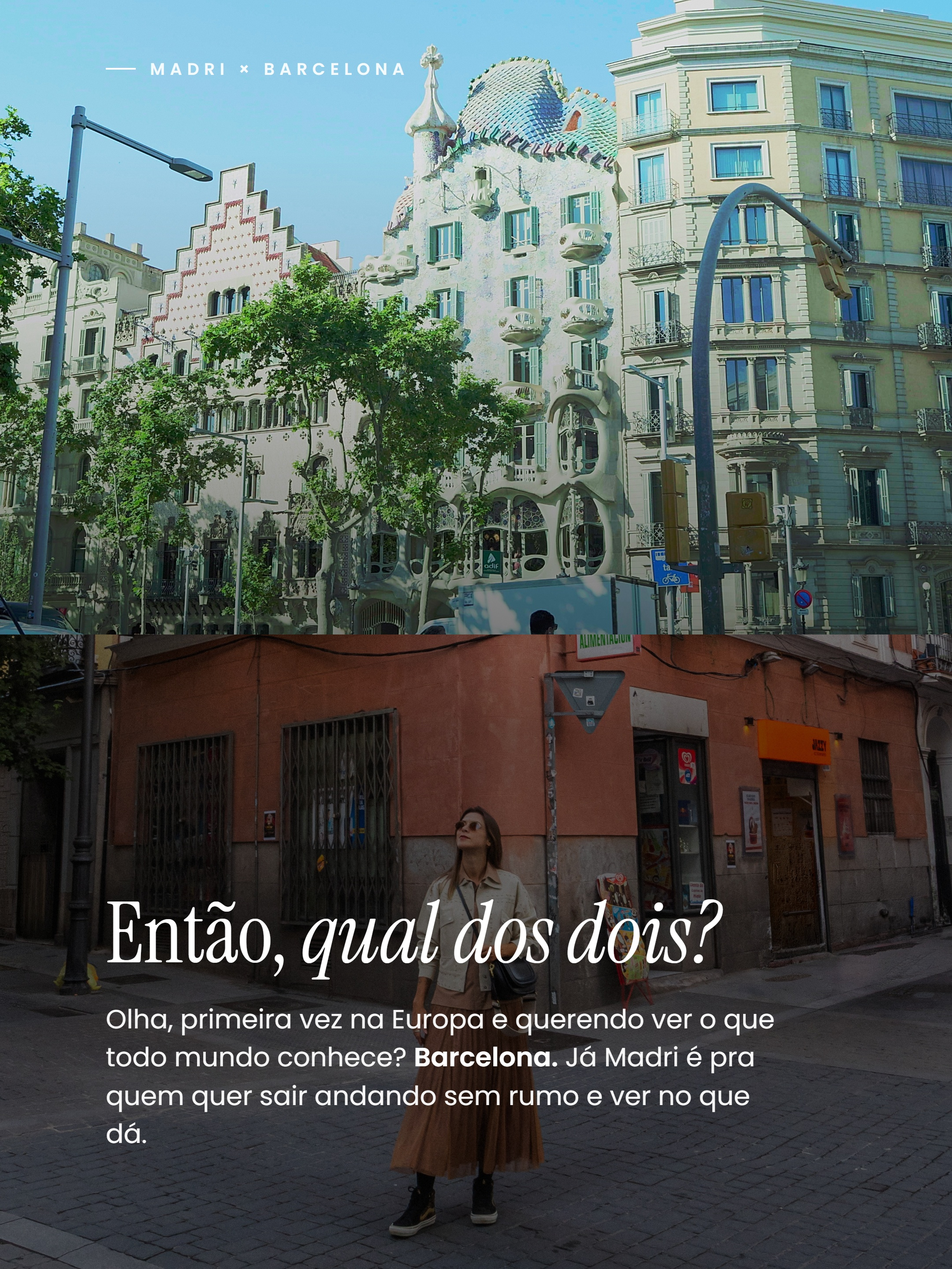
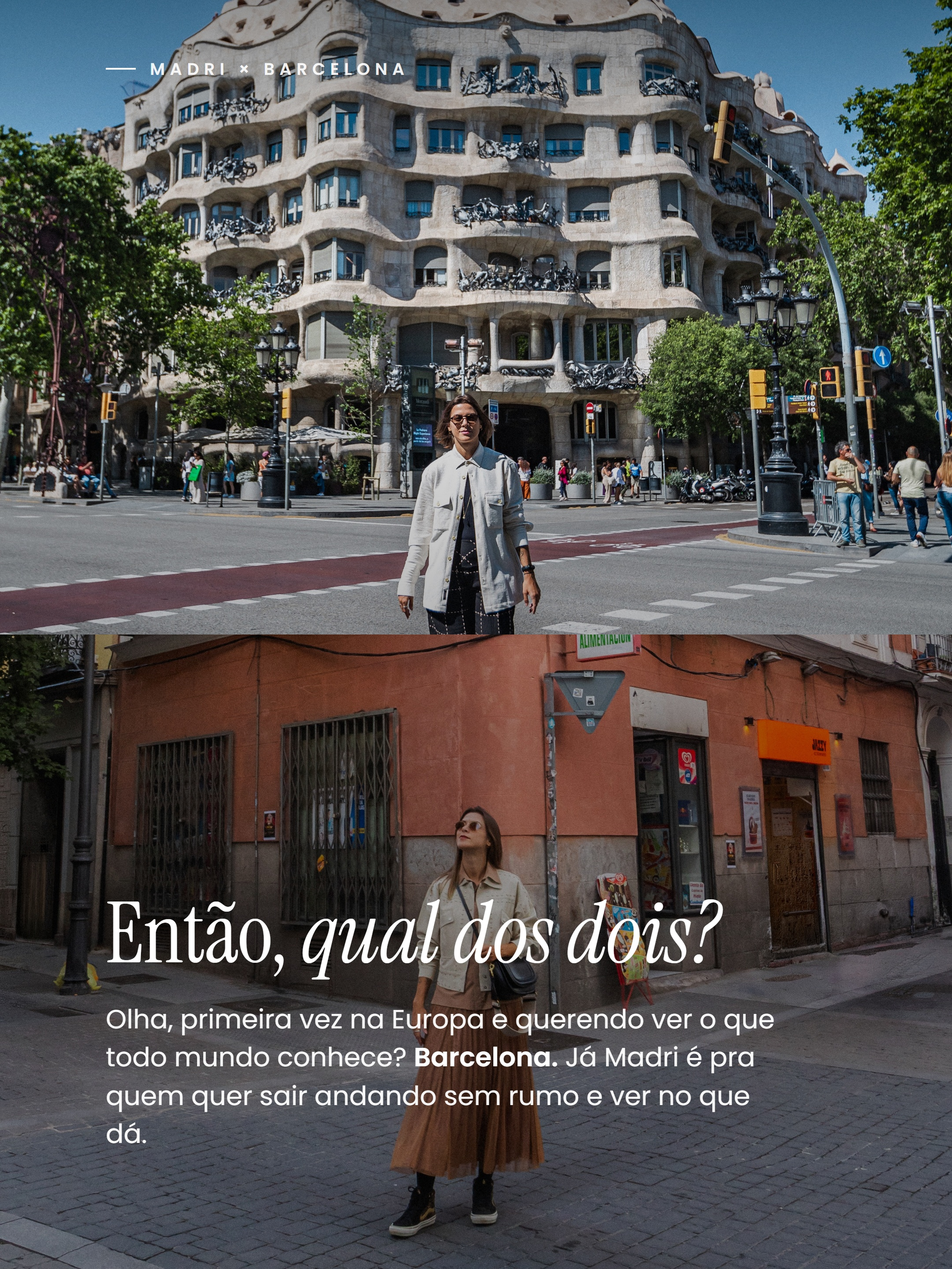
carrossel: slides 7 a 10 trocados por foto; corrige vinheta de topo
O Daniel reprovou os slides 7, 8, 9 e 10 -- exatamente os quatro cuja
imagem principal era frame de video. A causa e da fonte, nao do tratamento:
frame vem de 16:9, sofre upscale de ~1,33x para caber no 3:4 e nao tem o
micro-detalhe da foto. Ao lado de cinco slides com foto exportada, denuncia.

Barcelona tinha 63 fotos tratadas em H:/Destinos/Barcelona 2022/Fotografia
que ninguem havia varrido. Slides 9 e 10 passaram a usar foto (Casa Mila e
os dois na Casa Batllo). Slides 7 e 8 seguem em frame porque nao existe foto
de comida nem da Sala Equis no acervo, mas trocaram para o clipe mais
grafico: pao torrado em prato branco e o letreiro aceso da Sala Equis.

Bug junto: .vin-topo estava fora do seletor que aplica position absolute,
entao a vinheta de reforco do topo nunca teve efeito em nenhum slide desde
que foi criada -- o marcador vinha lendo por sorte, pelo fundo da foto.
Corrigido na peca e no template. O topo tambem virou medido, --scrim-topo,
porque .42 nao cobre branco brilhante: no slide 8 o marcador cai sobre o
letreiro aceso (brilho 218, contraste 1,28) e sumia.

diff --git a/biblioteca/pecas/2026/2026-08-07-carrossel-madri-ou-barcelona/fonte.html b/biblioteca/pecas/2026/2026-08-07-carrossel-madri-ou-barcelona/fonte.html
@@ -46,7 +46,7 @@
      que leva o texto. A conta cobre brilho e detalhe — o título do slide 3 caiu
      numa faixa escura o bastante pela média e mesmo assim não lia, porque a
      fachada da Casa Batlló tem detalhe 55. Erro pago em 2026-08-08. */
-  .vin-baixo, .vin-cima, .vin-meio { position: absolute; left: 0; width: 100%; pointer-events: none; }
+  .vin-baixo, .vin-cima, .vin-meio, .vin-topo { position: absolute; left: 0; width: 100%; pointer-events: none; }
   .slide { --scrim: .55; }
   /* O scrim fica CHEIO ao longo de todo o bloco de texto e só decai acima dele.
      Gradiente que começa a cair na base entrega metade do valor medido na
@@ -80,10 +80,17 @@
       rgba(0,0,0,calc(var(--scrim) * .42)) 72%,
       rgba(0,0,0,calc(var(--scrim) * .95)) 100%);
   }
-  /* reforço de topo — garante o marcador legível sobre céu ou parede clara */
+  /* Reforço de topo, para o marcador. Também medido: .42 cobre céu e parede
+     clara, mas não cobre branco brilhante — no slide 8 o marcador cai sobre o
+     letreiro iluminado da Sala Equis (brilho 218, contraste 1,28) e some. Slide
+     nesse caso passa --scrim-topo com o valor de `analisar` para a linha 0. */
+  .slide { --scrim-topo: .42; }
   .vin-topo {
     top: 0; height: 24%;
-    background: linear-gradient(to bottom, rgba(0,0,0,.42) 0%, rgba(0,0,0,.16) 52%, transparent 100%);
+    background: linear-gradient(to bottom,
+      rgba(0,0,0,var(--scrim-topo)) 0%,
+      rgba(0,0,0,calc(var(--scrim-topo) * .38)) 52%,
+      transparent 100%);
   }
 
   /* bloco de texto */
@@ -269,7 +276,7 @@
 </section>
 
 <!-- 07 — Barcelona -->
-<section class="slide" style="--scrim: .37">
+<section class="slide" style="--scrim: .53">
   <img class="foto" src="imagens/s07-pao-tomate.jpg" style="object-position: 50% 55%">
   <div class="vin-cima"></div>
   <div class="marcador">Barcelona</div>
@@ -280,7 +287,7 @@
 </section>
 
 <!-- 08 — Madri -->
-<section class="slide" style="--scrim: .30">
+<section class="slide" style="--scrim: .18; --scrim-topo: .76">
   <img class="foto" src="imagens/s08-sala-equis.jpg" style="object-position: 50% 50%">
   <div class="vin-baixo"></div>
   <div class="vin-topo"></div>
@@ -292,7 +299,7 @@
 </section>
 
 <!-- 09 — as duas -->
-<section class="slide" style="--scrim: .55">
+<section class="slide" style="--scrim: .35">
   <div class="faixa topo"><img src="imagens/s09-bcn-passeig.jpg" style="object-position: 50% 46%"></div>
   <div class="faixa base"><img src="imagens/s09-mad-rua.jpg" style="object-position: 50% 46%"></div>
   <div class="vin-baixo"></div>
@@ -305,7 +312,7 @@
 </section>
 
 <!-- 10 — CTA -->
-<section class="slide" style="--scrim: .65">
+<section class="slide" style="--scrim: .69">
   <img class="foto" src="imagens/s10-casal.jpg" style="object-position: 50% 42%">
   <div class="vin-baixo"></div>
   <div class="vin-topo"></div>

diff --git a/templates/carrossel-foto-sangrada/template.html b/templates/carrossel-foto-sangrada/template.html
@@ -1,4 +1,4 @@
-<!doctype html>
+<!doctype html>
 <html lang="pt-BR">
 <head>
 <meta charset="utf-8">
@@ -27,6 +27,7 @@
     overflow: hidden;
     color: #fff;
     --scrim: .55;
+    --scrim-topo: .42;
   }
   .foto {
     position: absolute;
@@ -77,10 +78,15 @@
       rgba(0,0,0,calc(var(--scrim) * .42)) 72%,
       rgba(0,0,0,calc(var(--scrim) * .95)) 100%);
   }
-  /* reforço de topo — garante o marcador legível sobre céu ou parede clara */
+  /* Reforço de topo, para o marcador. Também medido: .42 cobre céu e parede
+     clara, mas não cobre branco brilhante (letreiro aceso, brilho 218). Nesses
+     casos o slide passa --scrim-topo com o valor de `analisar` para a linha 0. */
   .vin-topo {
     top: 0; height: 24%;
-    background: linear-gradient(to bottom, rgba(0,0,0,.42) 0%, rgba(0,0,0,.16) 52%, transparent 100%);
+    background: linear-gradient(to bottom,
+      rgba(0,0,0,var(--scrim-topo)) 0%,
+      rgba(0,0,0,calc(var(--scrim-topo) * .38)) 52%,
+      transparent 100%);
   }
 
   .bloco {

diff --git a/biblioteca/pecas/2026/2026-08-07-carrossel-madri-ou-barcelona/brief.md b/biblioteca/pecas/2026/2026-08-07-carrossel-madri-ou-barcelona/brief.md
@@ -53,10 +53,10 @@ Acervo somente leitura. Nada gerado por IA, nenhuma paisagem inventada.
 | 04 | Madri | `s04-gran-via.jpg` | foto `Espanha Nomad 2025/Thumb/NUM_1511.JPG` |
 | 05 | Madri | `s05-taberna.jpg` | foto `Espanha Nomad 2025/Thumb/NUM_0097.JPG` |
 | 06 | Madri | `s06-mercado.jpg` | foto `Espanha Nomad 2025/Fotografia/Mercado Madrid/NUM_0380.JPG` |
-| 07 | Barcelona | `s07-pao-tomate.jpg` | frame `NUM_2044` (pão rústico na mesa) |
-| 08 | Madri | `s08-sala-equis.jpg` | frame `NUM_1222` (Sala Equis) |
-| 09 | as duas | `s09-bcn-passeig.jpg` + `s09-mad-rua.jpg` | frame `NUM_2604` (Passeig de Gràcia) + foto `Thumb/NUM_0043.JPG` |
-| 10 | as duas | `s10-casal.jpg` | frame `NUM_9907` (os dois, Madri) |
+| 07 | Barcelona | `s07-pao-tomate.jpg` | frame `NUM_2043` (pão torrado no prato) |
+| 08 | Madri | `s08-sala-equis.jpg` | frame `NUM_0918` (letreiro aceso da Sala Equis) |
+| 09 | as duas | `s09-bcn-passeig.jpg` + `s09-mad-rua.jpg` | fotos `Barcelona 2022/Casa Batlo/NUM_2465.jpg` (Casa Milà) + `Thumb/NUM_0043.JPG` |
+| 10 | as duas | `s10-casal.jpg` | foto `Barcelona 2022/Casa Batlo/IMG_8003.jpg` (os dois) |
 
 Frames localizados pelo `_index` de `H:\Destinos\Espanha Nomad 2025\_index\{madrid,barcelona}\index.csv`
 (busca por landmark e descrição), extraídos no meio do clipe com `ffmpeg`.
@@ -86,10 +86,10 @@ recebe esse número em `--scrim`. Valores usados:
 | 04 | rodapé | .54 | vitrine acesa atrás |
 | 05 | rodapé | .20 | fachada preta; âncora no rodapé porque o rosto está no meio |
 | 06 | rodapé | .65 | banca de frutas, detalhe 48 |
-| 07 | topo | .37 | mesa clara embaixo |
-| 08 | rodapé | .30 | interior escuro |
-| 09 | rodapé | .55 | split |
-| 10 | rodapé | .65 | prédio claro e selfie |
+| 07 | topo | .53 | prato e mesa claros |
+| 08 | rodapé | .18 + topo .76 | interior escuro, mas letreiro aceso no topo (brilho 218) |
+| 09 | rodapé | .35 | split, faixa de baixo escura |
+| 10 | rodapé | .69 | fachada clara atrás dos dois |
 
 ## Como montar
 
@@ -143,6 +143,35 @@ do slide 7 artificial (a cena já estava em 31%, acima do alvo de 26%). Com `aut
 prato recebe ganho zero e o frame do Metropolis sobe de 16,9% para 24,7%.
 
 Nesta rodada a peça virou **`templates/carrossel-foto-sangrada/`**, por decisão dele.
+
+## Calibração do Daniel, 2026-08-08 (rodada 3)
+
+"Slides 7, 8, 9 e 10 estão ruins." Eram exatamente os quatro slides cuja imagem
+principal era **frame de vídeo**. A causa é da fonte, não do tratamento: frame vem de
+16:9, sofre upscale de ~1,33× para caber no 3:4 e não tem o micro-detalhe da foto. Ao
+lado de cinco slides com foto exportada, denuncia.
+
+Correção: onde existe foto do destino, usa-se foto. O acervo de Barcelona 2022 tem 63
+fotos tratadas e estava praticamente sem uso.
+
+| Slide | Era | Virou |
+|---|---|---|
+| 07 | frame `NUM_2044`, pão desfocado em luz baixa | frame `NUM_2043`, pão torrado em prato branco |
+| 08 | frame `NUM_1222`, parede rosada e plana | frame `NUM_0918`, letreiro aceso da Sala Equis |
+| 09 | frame `NUM_2604` na faixa de cima | foto `NUM_2465`, Casa Milà — as duas faixas passam a ser foto |
+| 10 | frame `NUM_9907`, selfie de grande angular | foto `IMG_8003`, os dois na Casa Batlló |
+
+Sobraram dois frames (07 e 08) porque não existe foto de comida nem da Sala Equis no
+acervo. Nos dois casos a escolha foi o frame **mais gráfico**, que depende menos de
+detalhe fino: prato em fundo escuro e letreiro tipográfico aceso.
+
+**Bug encontrado no caminho:** `.vin-topo` estava fora do seletor que aplica
+`position: absolute`, então a vinheta de reforço do topo nunca teve efeito, em nenhum
+slide, desde que foi criada. O marcador vinha lendo por sorte, pelo fundo da foto.
+Corrigido na peça e no template.
+
+O slide 10 passou a ser foto de Barcelona num slide de CTA neutro. Assumido: a foto dos
+dois juntos vale mais no CTA que a neutralidade de cidade, e o texto continua equilibrado.
 
 ## Pendências
 

diff --git a/CLAUDE.md b/CLAUDE.md
@@ -113,7 +113,16 @@ dele: `Y:\numpulo\Transferencia\Gramado\Carrossel\Carrossel Gramado`.
   preset e exporta PNG sem redimensionar; `cor --lut <hald-revelado.png>` aplica. Vale
   para qualquer editor que revele imagem, não só Lightroom.
 - **Frame 16:9 em slide 3:4 sofre upscale de ~1,33×** e nunca vai bater com foto nativa
-  vertical em detalhe fino. O sharpen compensa em parte; o limite é da fonte.
+  vertical em detalhe fino. O sharpen compensa em parte; o limite é da fonte. Por isso:
+  **onde existe foto do destino, usa-se foto.** Frame entra quando não há foto da cena —
+  e aí a escolha é o clipe mais **gráfico** (letreiro, silhueta, objeto em fundo escuro),
+  que depende menos de detalhe fino. Os quatro slides reprovados pelo Daniel em
+  2026-08-08 eram os quatro cuja imagem principal era frame; três tinham foto disponível
+  no acervo e ninguém tinha olhado.
+- **Acervo de um destino pode estar em mais de uma pasta e de mais de uma viagem.**
+  Barcelona tinha 63 fotos tratadas em `H:\Destinos\Barcelona 2022\Fotografia` enquanto a
+  peça usava frame de vídeo da viagem de 2025. Antes de recorrer a frame, varrer todas as
+  pastas do destino.
 - **Onde o texto vai numa foto é medição, não olho:** `render.mjs analisar <imagem>` devolve,
   por faixa, brilho, detalhe, concentração de pele e o **scrim** necessário para o branco
   bater contraste 4,5. O slide usa esse número em `--scrim`; vinheta chutada falhou em
